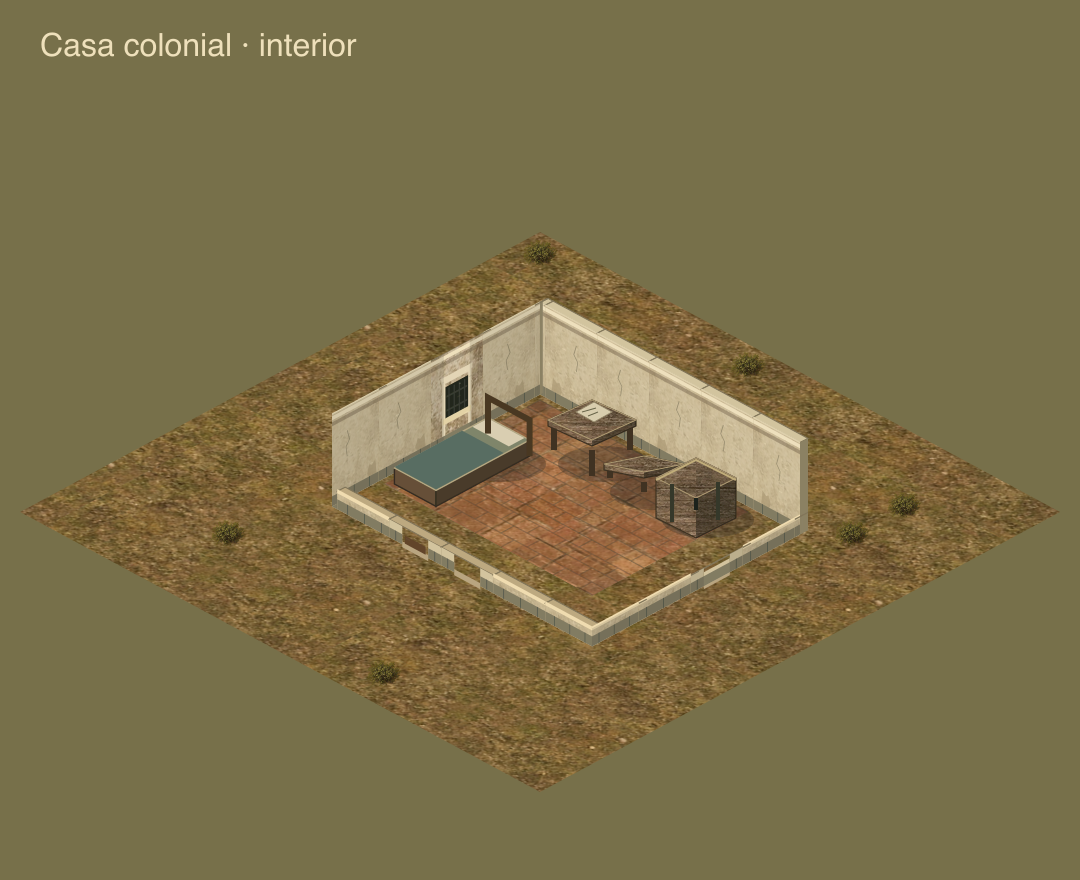
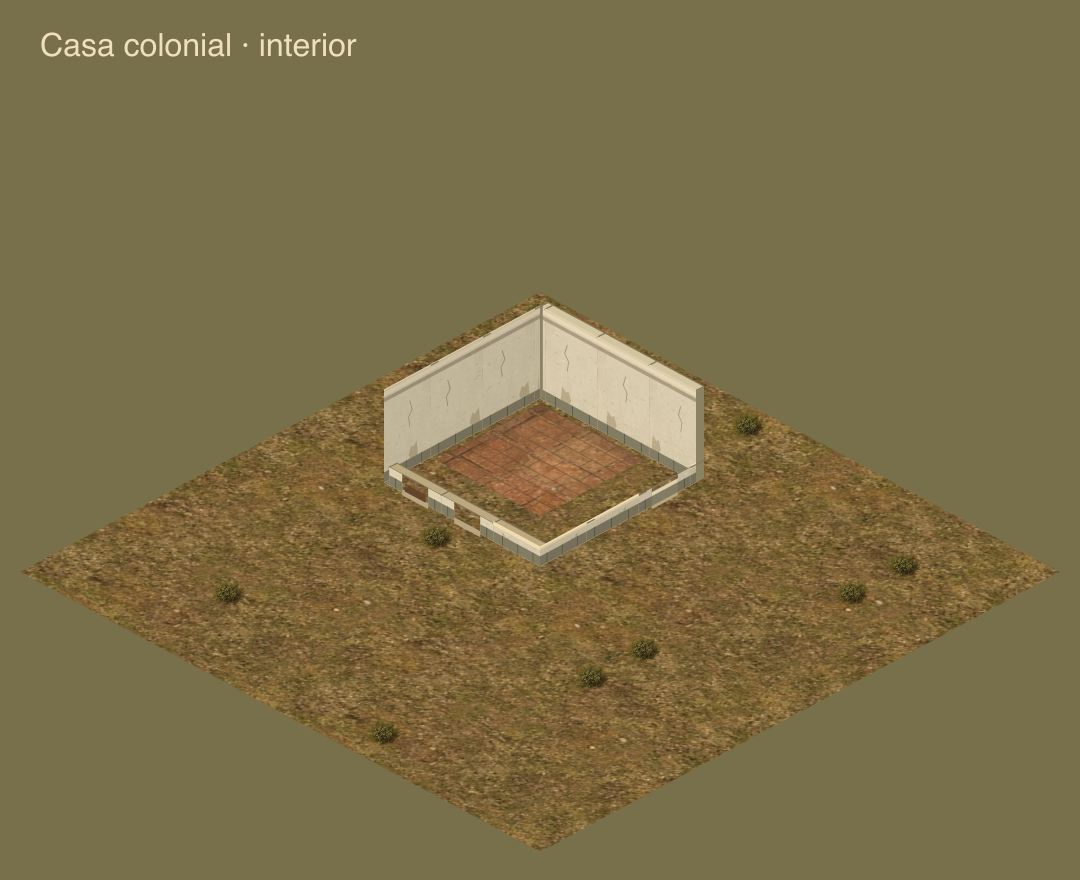
art: redesign colonial silhouettes, wall colours and landmark facades

Changed region(s): [[0.0306, 0.2761, 0.9778, 0.9818], [0.5194, 0.767, 0.5806, 0.7977], [0.1833, 0.583, 0.2444, 0.6136]]

diff --git a/web/app/BuildingRoof.tsx b/web/app/BuildingRoof.tsx
@@ -1,0 +1,128 @@
+import type {ReactNode} from 'react';
+import {buildingStyle} from '../../game/building-types.js';
+type P={x:number;y:number};
+type Args={building:any;left:number;right:number;top:number;bottom:number;doors?:any[];project:(x:number,y:number)=>P};
+const clay=['#976247','#9d684b','#a66f4f','#8f5c43','#ac7453','#a06a4d'];
+const hash=(x:number,y:number)=>((Math.imul(x+71,374761393)^Math.imul(y+97,668265263))>>>0);
+
+/** All surfaces, including tower sides, use the same ground projection as walls. */
+export function BuildingRoof({building:b,left:L,right:R,top:T,bottom:B,doors=[],project}:Args){
+ const style=buildingStyle(b),kind=b.architecture??'house',H=style.height+1;
+ const nodes:ReactNode[]=[];
+ const point=(x:number,y:number,z=0)=>{const p=project(x+.4,y+.4);return {x:p.x,y:p.y-z};};
+ const at=(x:number,y:number,z=0)=>{const p=point(x,y,z);return `${p.x},${p.y}`;};
+ const polygon=(coords:number[][],fill:string,stroke='#68583e',width=.6)=><polygon points={coords.map(([x,y,z])=>at(x,y,z)).join(' ')} fill={fill} stroke={stroke} strokeWidth={width}/>;
+ // A plane transform keeps façade ornaments parallel to the building, never facing the screen.
+ const face=(x:number,y:number,length:number,axis:'x'|'y',content:ReactNode)=>{
+  const p=point(x,y),q=point(x+(axis==='x'?length:0),y+(axis==='y'?length:0));
+  return <g transform={`matrix(${(q.x-p.x)/100} ${(q.y-p.y)/100} 0 1 ${p.x} ${p.y})`}>{content}</g>;
+ };
+ const box=(x:number,y:number,w:number,d:number,base:number,height:number,color=style.wall)=> <>
+  {polygon([[x,y+d,base],[x+w,y+d,base],[x+w,y+d,height],[x,y+d,height]],color)}
+  {polygon([[x+w,y,base],[x+w,y+d,base],[x+w,y+d,height],[x+w,y,height]],'#a29779')}
+  {polygon([[x,y,height],[x+w,y,height],[x+w,y+d,height],[x,y+d,height]],style.trim)}
+ </>;
+ const roof=(x:number,y:number,w:number,d:number,eave:number,rise:number,form:'hip'|'gable-x'|'gable-y'|'shed'|'flat',material='tile')=>{
+  const z=(a:number,c:number)=>eave+rise*(form==='flat'?0:form==='shed'?1-c:form==='gable-x'?1-Math.abs(c*2-1):form==='gable-y'?1-Math.abs(a*2-1):Math.min(1,(1-Math.abs(a*2-1))*w/Math.min(w,d),(1-Math.abs(c*2-1))*d/Math.min(w,d)));
+  const mesh:ReactNode[]=[];const nx=Math.ceil(w*3)*2,ny=Math.ceil(d*3)*2;
+  // Close gable ends before drawing roof planes.
+  if(form==='gable-y')mesh.push(<g key="gable" data-building-gable="true">{polygon([[x,y+d,eave],[x+w/2,y+d,eave+rise],[x+w,y+d,eave]],style.wall)}</g>);
+  if(form==='gable-x')mesh.push(<g key="gable" data-building-gable="true">{polygon([[x+w,y,eave],[x+w,y+d/2,eave+rise],[x+w,y+d,eave]],style.wall)}</g>);
+  for(let i=0;i<nx;i++)for(let j=0;j<ny;j++){
+   const a=i/nx,c=j/ny,a2=(i+1)/nx,c2=(j+1)/ny,n=hash(i+b.x*13,j+b.y*23);
+   const color=material==='thatch'?['#8e7b4f','#978354','#a38d59','#ad9761'][n%4]:form==='flat'?['#b8a581','#b09d79','#b3a07d'][n%3]:(kind==='cabildo'?['#a45338','#ae5d3d','#a9573b','#995036','#b06442','#a4583a']:clay)[n%clay.length];
+   mesh.push(<g key={`${i}-${j}`}>{polygon([[x+a*w,y+c*d,z(a,c)],[x+a2*w,y+c*d,z(a2,c)],[x+a2*w,y+c2*d,z(a2,c2)],[x+a*w,y+c2*d,z(a,c2)]],color,material==='thatch'?'none':'#78563d',.25)}
+    {material==='thatch'?Array.from({length:4},(_,k)=>{const f=c+(c2-c)*k/4;return <path key={k} d={`M${at(x+a*w,y+f*d,z(a,f)+.4)}L${at(x+a2*w,y+f*d,z(a2,f)+.4)}`} stroke={k%2?'#c2ac72':'#685a38'} strokeWidth=".6"/>;}):<path d={`M${at(x+a*w,y+c*d,z(a,c)+.3)}L${at(x+a2*w,y+c*d,z(a2,c)+.3)}`} stroke="#dbad79" opacity=".45" strokeWidth=".5"/>}
+   </g>);
+  }
+  mesh.push(<path key="edge" d={`M${at(x,y+d,z(0,1))}L${at(x+w,y+d,z(1,1))}L${at(x+w,y,z(1,0))}`} fill="none" stroke={material==='thatch'?'#74623e':'#67472f'} strokeWidth={material==='thatch'?4:2}/>);
+  return <g data-roof-form={form}>{mesh}</g>;
+ };
+ const parapet=(x:number,y:number,w:number,d:number,h:number)=> <>
+  {polygon([[x,y+d,H],[x+w,y+d,H],[x+w,y+d,h],[x,y+d,h]],style.wall)}
+  {polygon([[x+w,y,H],[x+w,y+d,H],[x+w,y+d,h],[x+w,y,h]],'#a99c7c')}
+  <path d={`M${at(x,y+d,h)}L${at(x+w,y+d,h)}L${at(x+w,y,h)}`} fill="none" stroke={style.trim} strokeWidth="3"/>
+ </>;
+ const chimney=(x:number,y:number,z:number)=> <g data-chimney="true">{box(x,y,.38,.4,z,z+20,'#a77d59')}{box(x-.05,y-.05,.48,.5,z+18,z+22,'#c09b71')}<path d={`M${at(x+.05,y+.12,z+23)}L${at(x+.32,y+.12,z+23)}`} stroke="#4b4535" strokeWidth="3"/></g>;
+ const gallery=(x:number,y:number,w:number,z:number,depth=.7)=> <g data-building-gallery="true">
+  {roof(x,y,w,depth,z,8,'shed')}
+  {Array.from({length:Math.ceil(w)+1},(_,i)=>{const a=x+w*i/Math.ceil(w);return <g key={i}><path d={`M${at(a,y+depth,0)}L${at(a,y+depth,z)}`} stroke="#5d4a30" strokeWidth="3"/><path d={`M${at(a,y+depth,z-8)}L${at(Math.min(x+w,a+.2),y+depth,z)}`} stroke="#96774b" strokeWidth="2"/></g>;})}
+  <path d={`M${at(x,y+depth,z)}L${at(x+w,y+depth,z)}`} stroke="#775636" strokeWidth="3"/>
+ </g>;
+ const tower=(x:number,y:number,w:number,d:number,base:number,h:number,clock=false)=> <g data-building-tower={kind}>
+  {box(x,y,w,d,base,h)}
+  {face(x,y+d,w,'x',<><path d={`M8,-${base}V-${h-2}M92,-${base}V-${h-2}`} stroke={style.trim} strokeWidth="5"/>
+   <path d={`M29,-${base+9}V-${h-21}Q50,-${h-10} 71,-${h-21}V-${base+9}Z`} fill="#383c2e" stroke={style.trim} strokeWidth="3"/>
+   {clock?<><ellipse cx="50" cy={-h+12} rx="13" ry="7" fill="#f0dfb0" stroke="#665c41"/><path d={`M50,-${h-7}v5h8`} stroke="#494a35" fill="none"/></>:<><path d={`M40,-${base+11}l3,-9q7,-5 14,0l3,9Z`} fill="#b29a5e"/><path d={`M35,-${base+10}H65`} stroke="#dfbe76" strokeWidth="2"/></>}
+  </>)}
+  {face(x+w,y,d,'y',<path d={`M30,-${base+10}V-${h-22}Q50,-${h-10} 70,-${h-22}V-${base+10}Z`} fill="#464a37" stroke="#c7b990" strokeWidth="2"/>)}
+  {box(x-.07,y-.07,w+.14,d+.14,h-3,h+1)}
+  {clock?<g data-cabildo-dome="true">{(()=>{const c=point(x+w/2,y+d/2,h+3),rx=Math.abs(point(x+w,y,h).x-point(x,y+d,h).x)/2+1;return <><path d={`M${c.x-rx},${c.y}C${c.x-rx},${c.y-18} ${c.x-12},${c.y-30} ${c.x},${c.y-30}C${c.x+12},${c.y-30} ${c.x+rx},${c.y-18} ${c.x+rx},${c.y}Z`} fill="#62512e" stroke="#483e26"/><path d={`M${c.x},${c.y-29}Q${c.x-9},${c.y-17} ${c.x-8},${c.y}`} fill="none" stroke="#99804a" strokeWidth="2"/><ellipse cx={c.x} cy={c.y} rx={rx} ry="4" fill="#ad9450"/></>;})()}</g>:<>
+  {polygon([[x-.1,y+d+.1,h+1],[x+w+.1,y+d+.1,h+1],[x+w/2,y+d/2,h+26]],'#996544')}
+  {polygon([[x+w+.1,y-.1,h+1],[x+w+.1,y+d+.1,h+1],[x+w/2,y+d/2,h+26]],'#77503a')}
+  </>}
+  <path d={`M${at(x+w/2,y+d/2,h+26)}v-13m-5,5h10`} stroke="#4d4935" strokeWidth="1.8"/>
+ </g>;
+ const w=R-L,d=B-T;
+ if(b.roof&&b.roof!==style.roof){
+  nodes.push(roof(L,T,w,d,H,b.roof==='terrace'?0:22,b.roof==='terrace'?'flat':'hip',b.roof));
+ }else if(kind==='cabildo'){
+  nodes.push(roof(L,T,w,d,H,22,'gable-x'));
+  // The long double arcade faces the plaza; the side remains a plain service wall.
+  nodes.push(face(L,B+.015,w,'x',<g data-cabildo-arcade="true">
+   <rect y={-H+2} width="100" height={H-2} fill={style.wall}/>
+   {Array.from({length:11},(_,i)=>{const x=2+i*8.8;return <g key={i}>
+    {[5,43].map(z=><g key={z}><path d={`M${x},-${z}V-${z+21}Q${x+3.1},-${z+33} ${x+6.2},-${z+21}V-${z}Z`} fill="#676a53"/><path d={`M${x+.6},-${z}V-${z+19}Q${x+3.5},-${z+29} ${x+5.6},-${z+19}`} stroke="#b9ac88" strokeWidth=".65" fill="none"/></g>)}
+    <path d={`M${x-.7},-2V-35M${x-.7},-41V-75`} stroke={style.trim} strokeWidth="1.2"/>
+   </g>;})}
+   <path d="M0,-39H100M0,-78H100M0,-3H100" stroke={style.trim} strokeWidth="3"/>
+   <path d="M0,-40H100M0,-47H100" stroke="#454b3c" strokeWidth=".9"/>
+   {Array.from({length:45},(_,i)=><path key={`rail-${i}`} d={`M${i*100/44},-47v7`} stroke="#454b3c" strokeWidth=".65"/>)}
+   <path d={`M42,0V-${H+8}H58V0ZM39,-${H+8}H61`} fill={style.wall} stroke={style.trim} strokeWidth="2"/>
+   <path d="M45,-45V-64Q50,-76 55,-64V-45Z" fill="#4a503c" stroke={style.trim} strokeWidth="1.5"/>
+   <path d={`M43,-2V-${H+4}M57,-2V-${H+4}`} stroke={style.trim} strokeWidth="1.8"/>
+   <path d="M40,-39H60M41,-8H59" stroke={style.trim} strokeWidth="3"/>
+  </g>));
+  nodes.push(tower(L+w*.43,B-.9,w*.14,.85,H+7,H+66,true));
+  for(const door of doors.filter(t=>t.y===b.y+b.height-1))nodes.push(face(door.x-.4,B+.03,.48,'x',<g data-landmark-door={door.doorId}>
+   <rect y="-29" width="100" height="29" fill="#30372a"/>
+   <rect y="-28" width={door.open?12:100} height="28" fill="#70583b" stroke="#c4af72" strokeWidth="1"/>
+   {!door.open&&<path d="M25,-27V0M50,-27V0M75,-27V0M0,-23H100M0,-6H100" stroke="#4d412a"/>}
+  </g>));
+ }else if(kind==='church'){
+  nodes.push(roof(L,T,w,d,H,31,'gable-y'));
+  // The church front has a curved pediment, central oculus and two pilasters.
+  nodes.push(face(L,B+.025,w,'x',<g data-church-front="true">
+   <path d={`M0,-${H-3}V-${H+5}H15Q24,-${H+5} 29,-${H+17}Q38,-${H+36} 50,-${H+36}Q62,-${H+36} 71,-${H+17}Q76,-${H+5} 85,-${H+5}H100V-${H-3}Z`} fill={style.wall} stroke={style.trim} strokeWidth="2"/>
+   <path d={`M18,-2V-${H+1}M82,-2V-${H+1}`} stroke={style.trim} strokeWidth="5"/>
+   <path d={`M15,-${H+2}H85M12,-8H26M74,-8H88`} stroke="#c1ad83" strokeWidth="3"/>
+   <ellipse cx="50" cy={-H+8} rx="9" ry="8" fill="#69664b" stroke={style.trim} strokeWidth="3"/>
+   <path d={`M50,-${H+33}v-16m-5,5h10`} stroke="#4a4732" strokeWidth="1.6"/>
+  </g>));
+  nodes.push(tower(L+.05,B-.87,.88,.88,H-2,H+59));
+ }else if(kind==='mansion'){
+  nodes.push(roof(L,T,w,d,H,0,'flat'),parapet(L,T,w,d,H+10));
+  // An offset mirador and its small hip roof break up the roof terrace.
+  nodes.push(box(L+.15,T+.2,w*.38,d*.42,H,H+25),roof(L+.08,T+.13,w*.38+.14,d*.42+.14,H+26,14,'hip'));
+  nodes.push(face(L+.15,T+.2+d*.42,w*.38,'x',<><rect x="28" y={-H-21} width="40" height="16" fill="#56634e"/><path d={`M48,-${H+21}v16`} stroke={style.trim} strokeWidth="2"/></>));
+  nodes.push(chimney(R-.65,T+.5,H));
+ }else if(kind==='estancia'){
+  nodes.push(roof(L,T,w,d,H,24,'hip'),gallery(L,B,w,H-11,.8));
+  nodes.push(chimney(L+.45,T+.6,H+9));
+ }else if(kind==='farmhouse'){
+  nodes.push(roof(L-.08,T-.08,w+.16,d+.16,H,24,'hip','thatch'));
+  nodes.push(chimney(R-.7,T+.5,H+6));
+ }else if(kind==='warehouse'){
+  nodes.push(roof(L,T,w*.5,d,H,23,'gable-y'),roof(L+w*.5,T,w*.5,d,H,23,'gable-y'));
+  nodes.push(face(L,B+.01,w,'x',<><path d={`M0,-${H}H100`} stroke="#645239" strokeWidth="3"/>{[25,75].map(x=><g key={x}><path d={`M${x-6},-${H+3}V-${H+11}H${x+6}V-${H+3}Z`} fill="#574e38"/><path d={`M${x-7},-${H+7}H${x+7}`} stroke="#b49360"/></g>)}<path d={`M50,-${H-2}V-${H+22}h14m-6,0v24`} stroke="#57442c" strokeWidth="2"/></>));
+ }else if(kind==='pulperia'){
+  nodes.push(roof(L,T,w,d,H,16,'shed'),gallery(L,B,w,H-12,.75));
+  nodes.push(face(L+w*.1,B+.76,w*.28,'x',<><path d={`M0,-${H-12}v11M100,-${H-12}v11`} stroke="#453b27"/><rect y={-H+20} width="100" height="10" fill="#644d30" stroke="#a8915a"/><text x="50" y={-H+27} textAnchor="middle" fill="#e1cea0" fontSize="6" letterSpacing="1">PULPERÍA</text></>));
+ }else if(kind==='barracks'){
+  nodes.push(roof(L,T,w,d,H,12,'gable-x'),chimney(L+.6,T+.7,H+5),chimney(R-.8,T+.7,H+5));
+ }else{
+  nodes.push(roof(L,T,w,d,H,0,'flat'),parapet(L,T,w,d,H+7),chimney(L+.5,T+.5,H));
+  nodes.push(face(L,B+.015,w,'x',<path d={`M35,-${H+6}V-${H+11}H65V-${H+6}`} fill={style.wall} stroke={style.trim} strokeWidth="2"/>));
+ }
+ return <g data-building-silhouette={kind}>{nodes.map((node,i)=><g key={i}>{node}</g>)}</g>;
+}

diff --git a/web/app/TacticalBuildings.tsx b/web/app/TacticalBuildings.tsx
@@ -1,12 +1,12 @@
 import {buildingStyle} from '../../game/building-types.js';
-import {WallDetails,RoofLandmark} from './BuildingDetails';
+import {WallDetails} from './BuildingDetails';
+import {BuildingRoof} from './BuildingRoof';
 import type {ReactNode} from 'react';
 type Point={x:number;y:number};
 type Args={state:any;revealed:Set<string>;project:(x:number,y:number)=>Point;light:(x:number,y:number)=>number};
 type SceneObject={key:string;depth:number;node:ReactNode};
 // Restrained earth pigments, limewash and hand-fired clay; no modern siding.
 const wallInset=.4; // Tile edges are half a cell from the center.
-const clay=['#925238','#a45e40','#ad6949','#975337','#b47651','#9f6042'];
 const noise=(x:number,y:number)=>((Math.imul(x+71,374761393)^Math.imul(y+97,668265263))>>>0);
 
 /** Render architectural segments on authored collision cells, never a facade image. */
@@ -40,23 +40,23 @@ export function buildBuildingObjects({state:s,revealed,project,light}:Args):Scen
     <polygon points={`${top(start,height)} ${top(end,height)} ${end.x+4},${end.y-height-2} ${start.x+4},${start.y-height-2}`} fill={cut?'#bda980':'#d2c49e'} stroke="#807459" strokeWidth=".55"/>
     <path d={`M${end.x},${end.y}v-${height}l4,-2v${height}Z`} fill="#8b8163"/>
     <g transform={`matrix(${dx} ${dy} 0 1 ${start.x} ${start.y})`}>
-     {!isOpening?<><rect x="0" y={-height} width={width} height={height} fill="url(#terrain-plaster)"/><rect y={-height} width="40" height={height} fill={plaster} opacity=".66"/></>:cut?<>
+     {!isOpening?<><rect x="0" y={-height} width={width} height={height} fill="url(#terrain-plaster)"/><rect y={-height} width="40" height={height} fill={plaster} opacity=".86"/></>:cut?<>
       {/* Openings stay legible as thresholds and low jambs in the cutaway. */}
       <path d="M0,0V-9H10V0ZM30,0V-9H40V0Z" fill={plaster}/>
       <path d="M10,0H30" stroke="#b9a580" strokeWidth="3"/>
       {t.type==='door'&&!t.open&&<path d="M12,-3H28" stroke="#62452c" strokeWidth="4"/>}
       {t.type==='window'&&<path d="M10,-7H30V0H10Z" fill={plaster}/>}
      </>:<>
-      <path d={`M0,0V-${height}H40V0H29V-${t.type==='door'?30:29}H11V0Z`} fill="url(#terrain-plaster)"/>
-      {t.type==='window'&&<rect x="10" y="-12" width="20" height="12" fill="url(#terrain-plaster)"/>}
+      <path d={`M0,0V-${height}H40V0H29V-${t.type==='door'?30:29}H11V0Z`} fill={plaster}/>
+      {t.type==='window'&&<rect x="10" y="-12" width="20" height="12" fill={plaster}/>}
       <rect x="11" y={t.type==='door'?-30:-29} width="18" height={t.type==='door'?30:17} fill="#20251b"/>
       <path d={`M10,0V-32H30V0M8,-33H32`} fill="none" stroke="#e3d5b5" strokeWidth="2.5"/>
       {t.type==='door'?<g transform={t.open?'translate(11 0) skewY(-25) scale(.22 1) translate(-11 0)':undefined}><rect x="12" y="-30" width="16" height="30" fill="url(#terrain-wood)" stroke="#5c4931" strokeWidth=".8"/><path d="M15,-29V-1M20,-29V-1M25,-29V-1M12,-24H28M12,-7H28" stroke="#413725" strokeWidth=".7"/><circle cx="25" cy="-14" r="1" fill="#c1a16a"/></g>:<><path d="M14,-28V-13M18,-28V-13M22,-28V-13M26,-28V-13M12,-24H28M12,-17H28" stroke="#383b30" strokeWidth="1"/><path d="M9,-12H31" stroke="#e3d2a5" strokeWidth="3"/></>}
      </>}
-     <WallDetails building={b} front={Boolean(isFront)} cut={Boolean(cut)} opening={isOpening}/>
+     <WallDetails building={b} front={Boolean(isFront&&axis==='x')} cut={Boolean(cut)} opening={isOpening}/>
      {/* Limewash wear is irregular but stable across renders. */}
      {Array.from({length:cut?4:19},(_,i)=>{const n=noise(t.x*43+i,t.y*29+index),x=n%38+1,y=-(n%Math.max(1,height-3)+2);return <path key={i} d={`M${x},${y}h${1+n%3}`} stroke={i%3?'#796d50':'#fff1ce'} opacity={i%3?'.16':'.23'} strokeWidth=".6"/>;})}
-     {!cut&&<><path d="M0,-44H40" stroke="#eee0bd" strokeWidth="2"/><path d="M0,-41H40" stroke="#66553e" strokeWidth="2" opacity=".4"/></>}
+     {!cut&&<><path d={`M0,-${height-2}H40`} stroke={style.trim} strokeWidth="2"/><path d={`M0,-${height-5}H40`} stroke="#66553e" strokeWidth="2" opacity=".4"/></>}
      {/* Broken plaster and jointed stone footing, deterministic per tile. */}
      {!isOpening&&<><path d={`M${3+seed},-${Math.min(height-2,12)}l3,2 2,-1 2,4 -2,3 -6,-1Z`} fill="#a69570" opacity=".6"/>{height>15&&<path d={`M${27-seed},-34l-2,5 3,3 -1,5`} fill="none" stroke="#867d61" strokeWidth=".55" opacity=".75"/>}</>}
      <path d={isOpening&&t.type==='door'?'M0,-5H10V0H0ZM30,-5H40V0H30Z':'M0,-5H40V0H0Z'} fill="#827b62"/>
@@ -93,43 +93,9 @@ export function buildBuildingObjects({state:s,revealed,project,light}:Args):Scen
    continue;
   }
   const xs=room.cells.map((p:any)=>p.x),ys=room.cells.map((p:any)=>p.y);
-  const left=Math.max(b.x-.18,Math.min(...xs)-1.18),right=Math.min(b.x+b.width-.82,Math.max(...xs)+1.18),top=Math.max(b.y-.18,Math.min(...ys)-1.18),bottom=Math.min(b.y+b.height-.82,Math.max(...ys)+1.18),middle=(left+right)/2;
-  const style=buildingStyle(b),flat=b.roof==='terrace',thatch=b.roof==='thatch';
-  const rise=flat?0:Math.min(thatch?35:30,(right-left)*7),eave=style.height+1;
-  const palette=thatch?['#968053','#a38d5f','#b49b68','#8b784d','#bcaa78','#9d8858']:clay;
-  const roof=(x:number,y:number,z:number)=>{const p=project(x+wallInset,y+wallInset);return `${p.x},${p.y-z}`;};
-  const tiles:ReactNode[]=[];
-  // Map each barrel tile onto its actual roof plane (never a screen-space pattern).
-  for(const side of [0,1]){
-   const a=side?middle:left,c=side?right:middle;
-   const z=(x:number)=>eave+rise*(side?(right-x)/(right-middle):(x-left)/(middle-left));
-   const rows=Math.ceil((c-a)*5),columns=Math.ceil((bottom-top)*5);
-   for(let row=0;row<rows;row++)for(let col=0;col<columns;col++){
-    const x=a+(c-a)*row/rows,x2=a+(c-a)*(row+1)/rows,y=top+(bottom-top)*col/columns,y2=top+(bottom-top)*(col+1)/columns;
-    const n=noise(row+b.x*31,col+b.y*17+side);
-    tiles.push(<g key={`${side}-${row}-${col}`}>
-     <polygon points={`${roof(x,y,z(x))} ${roof(x2,y,z(x2))} ${roof(x2,y2,z(x2))} ${roof(x,y2,z(x))}`} fill={flat?'#aa9671':palette[n%palette.length]} stroke={thatch?'none':'#603e2d'} strokeWidth=".35"/>
-     {thatch&&Array.from({length:5},(_,fiber)=>{const fy=y+(y2-y)*fiber/5;return <path key={fiber} d={`M${roof(x,fy,z(x)+.4)}L${roof(x2+.025,fy,z(x2)+.4)}`} stroke={fiber%2?'#d0bb80':'#76643e'} strokeWidth=".55" opacity=".7"/>;})}
-     <path d={`M${roof(x,y+.035,z(x)+.3)}L${roof(x2,y+.035,z(x2)+.3)}`} stroke={thatch?'#d0bc84':'#d59a69'} strokeWidth={thatch?1.2:.85} opacity=".6"/>
-    </g>);
-   }
-  }
+  const left=Math.max(b.x-.18,Math.min(...xs)-1.18),right=Math.min(b.x+b.width-.82,Math.max(...xs)+1.18),top=Math.max(b.y-.18,Math.min(...ys)-1.18),bottom=Math.min(b.y+b.height-.82,Math.max(...ys)+1.18);
   objects.push({key:`architecture-roof-${room.id}`,depth:right+bottom+.12,node:<g data-roof-room={room.id} data-roof-material={b.roof} data-building-type={b.architecture??'house'} pointerEvents="none" style={{filter:`brightness(${light(b.x,b.y)})`}}>
-   {/* A complete gable closes the old triangular gap above the front wall. */}
-   <polygon data-building-gable="true" points={`${roof(left,bottom,eave)} ${roof(middle,bottom,eave+rise)} ${roof(right,bottom,eave)}`} fill="url(#terrain-plaster)" stroke="#8b7856" strokeWidth=".7"/>
-   <path d={`M${roof(middle,bottom,eave+9)}v-7`} stroke="#4d4533" strokeWidth="3"/>
-   {tiles}
-   <polygon points={`${roof(middle,top,eave+rise)} ${roof(right,top,eave)} ${roof(right,bottom,eave)} ${roof(middle,bottom,eave+rise)}`} fill="#27221a" opacity=".16"/>
-   <path d={`M${roof(left,bottom,eave)}L${roof(middle,bottom,eave+rise)}L${roof(right,bottom,eave)}`} fill="none" stroke="#513926" strokeWidth="3"/>
-   <path d={`M${roof(left,top,eave)}L${roof(left,bottom,eave)}M${roof(right,top,eave)}L${roof(right,bottom,eave)}`} stroke="#663e29" strokeWidth="3"/>
-   {!flat&&<path d={`M${roof(middle,top,eave+rise)}L${roof(middle,bottom,eave+rise)}`} stroke={thatch?'#786842':'#cd8a59'} strokeWidth={thatch?6:4}/>}
-   {flat&&<path d={`M${roof(left,top,eave+7)}L${roof(right,top,eave+7)}L${roof(right,bottom,eave+7)}L${roof(left,bottom,eave+7)}Z`} fill="none" stroke={style.trim} strokeWidth="7"/>}
-   {style.gallery&&<g data-building-gallery="true">
-    <polygon points={`${roof(left,bottom,eave-5)} ${roof(right,bottom,eave-5)} ${roof(right,bottom+.55,eave-17)} ${roof(left,bottom+.55,eave-17)}`} fill="#a96f49" stroke="#62482f" strokeWidth="2"/>
-    {Array.from({length:b.width},(_,i)=>{const x=left+(right-left)*i/(b.width-1);return <g key={i}><path d={`M${roof(x,bottom+.55,0)}L${roof(x,bottom+.55,eave-17)}`} stroke="#735638" strokeWidth="3"/><path d={`M${roof(x,bottom,eave-5)}L${roof(x,bottom+.55,eave-17)}`} stroke="#d39964" strokeWidth="1.5"/></g>;})}
-   </g>}
-   <RoofLandmark building={b} project={project} eave={eave}/>
-   {Array.from({length:Math.ceil((bottom-top)*5)},(_,i)=>{const y=top+i/5;return <path key={i} d={`M${roof(middle-.06,y,eave+rise-1)}L${roof(middle+.06,y,eave+rise-1)}`} stroke="#72452e" strokeWidth=".8"/>;})}
+   <BuildingRoof building={b} left={left} right={right} top={top} bottom={bottom} doors={s.tiles.filter((t:any)=>t.buildingId===b.id&&t.type==='door')} project={project}/>
   </g>});
  }
  return objects;

diff --git a/web/app/BuildingDetails.tsx b/web/app/BuildingDetails.tsx
@@ -5,32 +5,15 @@ export function WallDetails({building:b,front,cut,opening}:{building:any;front:b
  const style=buildingStyle(b),kind=b?.architecture;
  if(cut)return null;
  return <g data-architecture-detail={kind??'house'}>
-  {style.upper&&<><rect y={-style.height} width="40" height={style.height-46} fill={style.wall}/><path d="M0,-47H40M0,-50H40" stroke={style.trim} strokeWidth="2"/>
+  {style.upper&&kind!=='cabildo'&&<><rect y={-style.height} width="40" height={style.height-46} fill={style.wall}/><path d="M0,-47H40M0,-50H40" stroke={style.trim} strokeWidth="2"/>
    <path d={`M10,-55V-${style.height-12}Q20,-${style.height+1} 30,-${style.height-12}V-55Z`} fill="#383a2d" stroke={style.trim} strokeWidth="2"/>
    <path d={`M16,-56V-${style.height-11}M24,-56V-${style.height-11}`} stroke="#776448"/>
    {kind==='mansion'&&<><path d="M6,-53H34M7,-62H33M9,-62V-53M14,-62V-53M20,-62V-53M26,-62V-53M31,-62V-53" stroke="#353a30" strokeWidth="1.2"/><path d="M4,-51H36" stroke={style.trim} strokeWidth="3"/></>}
   </>}
-  {front&&style.arcade&&<>{!opening&&<path d="M6,-6V-28Q20,-44 34,-28V-6Z" fill="#8d866c"/>}<path d="M2,0V-29Q20,-52 38,-29V0M2,-47V-70Q20,-91 38,-70V-48" fill="none" stroke={style.trim} strokeWidth="4"/><path d="M0,-3H7M33,-3H40M0,-46H40" stroke={style.trim} strokeWidth="3"/></>}
-  {front&&style.gallery&&<><path d="M1,0V-40M39,0V-40" stroke="#574730" strokeWidth="3"/><path d="M0,-38H40M1,-31L9,-38M31,-38L39,-31" stroke="#7d6441" strokeWidth="2"/></>}
   {kind==='barracks'&&<path d="M0,-9H40" stroke="#915d43" strokeWidth="5" opacity=".8"/>}
-  {kind==='warehouse'&&!opening&&<><path d="M3,-8V-49H37V-8ZM5,-10L35,-47M5,-47L35,-10" fill="#776348" stroke="#4b4130" strokeWidth="2"/><path d="M13,-10V-47M26,-10V-47" stroke="#9d8359"/></>}
-  {front&&style.awning&&<><path d="M1,-35L-3,-27H43L39,-35Z" fill="#54624b" stroke="#343d2e"/><path d="M5,-34L2,-28M15,-34L14,-28M25,-34L26,-28M35,-34L38,-28" stroke="#c6b782" strokeWidth="3"/></>}
-  {kind==='church'&&!opening&&<><path d="M1,0V-60H7V0M33,0V-60H39V0" fill={style.trim}/><path d="M15,-35V-45Q20,-55 25,-45V-35Z" fill="#514b35" stroke={style.trim} strokeWidth="2"/></>}
- </g>;
-}
+  {kind==='warehouse'&&!opening&&<>{Array.from({length:9},(_,row)=><g key={row}><path d={`M0,-${row*5+3}H40`} stroke="#d0ad81" strokeWidth=".65"/>{[0,1,2].map(col=><path key={col} d={`M${col*15+(row%2?7:0)},-${row*5+3}v-5`} stroke="#d0ad81" strokeWidth=".65"/>)}</g>)}</>}
+  {kind==='farmhouse'&&!opening&&<path d="M2,-4V-34M38,-4V-34M0,-32H40" stroke="#776043" strokeWidth="2"/>}
+  {kind==='church'&&!opening&&<path d="M1,0V-59H6V0M34,0V-59H39V0" fill={style.trim}/>}
 
-export function RoofLandmark({building:b,project,eave}:{building:any;project:(x:number,y:number)=>{x:number;y:number};eave:number}){
- const style=buildingStyle(b);if(!style.tower)return null;
- const p=project(b.x+b.width/2,b.y+b.height-.6),cabildo=b.architecture==='cabildo';
- const base=eave+8,h=cabildo?64:58,w=cabildo?24:20;
- return <g data-building-tower={b.architecture} transform={`translate(${p.x} ${p.y-base})`}>
-  <path d={`M${-w},0V-${h}H${w}V0Z`} fill={style.wall} stroke="#80765a"/>
-  <path d={`M${w},0l12,-7V-${h+7}l-12,7Z`} fill="#998e6e"/>
-  <path d={`M${-w-3},-${h}H${w+3}l12,-7H${-w+9}Z`} fill={style.trim} stroke="#847959"/>
-  <path d={`M-9,-15V-${h-19}Q0,-${h-7} 9,-${h-19}V-15Z`} fill="#333b2e" stroke={style.trim} strokeWidth="3"/>
-  {cabildo?<><circle cy={-h+10} r="7" fill="#e5d4a1" stroke="#5b523b"/><path d={`M0,-${h-5}v5h4`} fill="none" stroke="#454332" strokeWidth="1.2"/></>:<><path d="M-6,-18L-4,-30Q0,-36 4,-30L6,-18Z" fill="#a58c51"/><path d="M-7,-17H7" stroke="#d1b772" strokeWidth="2"/></>}
-  <path d={`M${-w-1},-${h+7}Q${-w},-${h+23} 0,-${h+30}Q${w},-${h+23} ${w+1},-${h+7}Z`} fill={cabildo?'#8d8061':'#9d6547'} stroke="#544b36"/>
-  <path d={`M0,-${h+29}v-16m-6,6h12`} stroke="#4e4934" strokeWidth="2"/>
-  <path d={`M${-w},-7H${w}M${-w},-${h-3}H${w}`} stroke={style.trim} strokeWidth="3"/>
  </g>;
 }

diff --git a/game/building-types.js b/game/building-types.js
@@ -1,15 +1,17 @@
 // Shared construction catalogue. Styles are interpretations of 1810–1820 architecture.
 export const BUILDING_TYPES=Object.freeze({
- house:{name:'Casa colonial',roof:'tile',wall:'#d3c49e',trim:'#e8d8b5',height:46},
- farmhouse:{name:'Rancho de campo',roof:'thatch',wall:'#aa9168',trim:'#c1a77b',height:38},
- estancia:{name:'Casco de estancia',roof:'tile',wall:'#e0cfaa',trim:'#f3e2bc',height:48,gallery:true},
- church:{name:'Iglesia colonial',roof:'tile',wall:'#dfd7bb',trim:'#eddfbd',height:62,tower:true},
- mansion:{name:'Casa de altos',roof:'terrace',wall:'#c4b090',trim:'#eee0be',height:80,upper:true},
- cabildo:{name:'Cabildo de Buenos Aires',roof:'tile',wall:'#dfd8bd',trim:'#f3e8cf',height:86,upper:true,arcade:true,tower:true},
- pulperia:{name:'Pulpería',roof:'tile',wall:'#c5b58b',trim:'#e3cea2',height:46,awning:true},
- warehouse:{name:'Almacén del puerto',roof:'tile',wall:'#b09c77',trim:'#d5bc90',height:54},
- barracks:{name:'Barraca del cuartel',roof:'tile',wall:'#c4bfa5',trim:'#e2d9b9',height:46},
+ house:{name:'Casa colonial',roof:'terrace',wall:'#ddd1b2',trim:'#e8d8b5',height:46},
+ farmhouse:{name:'Rancho de campo',roof:'thatch',wall:'#aa8860',trim:'#c1a77b',height:38},
+ estancia:{name:'Casco de estancia',roof:'tile',wall:'#c28d7a',trim:'#f3e2bc',height:43,gallery:true},
+ church:{name:'Iglesia colonial',roof:'tile',wall:'#ded9c2',trim:'#c4b08a',height:62,tower:true},
+ mansion:{name:'Casa de altos',roof:'terrace',wall:'#849c9c',trim:'#eee0be',height:80,upper:true},
+ cabildo:{name:'Cabildo de Buenos Aires',roof:'tile',wall:'#dec46f',trim:'#f3e8cf',height:80,upper:true,arcade:true,tower:true},
+ pulperia:{name:'Pulpería',roof:'tile',wall:'#b09a58',trim:'#e3cea2',height:46,awning:true},
+ warehouse:{name:'Almacén del puerto',roof:'tile',wall:'#a9785d',trim:'#d5bc90',height:54},
+ barracks:{name:'Barraca del cuartel',roof:'tile',wall:'#9aab89',trim:'#e2d9b9',height:39},
 });
+// Neighbourhood dimensions fit the street grid; landmarks keep their authored plans.
+export const BUILDING_FOOTPRINTS=Object.freeze({house:[4,4],farmhouse:[4,3],estancia:[6,4],church:[4,5],mansion:[5,5],cabildo:[8,4],pulperia:[5,4],warehouse:[5,5],barracks:[6,3]});
 export const buildingStyle=b=>BUILDING_TYPES[b?.architecture]??BUILDING_TYPES.house;
 export function sectorBuildingType(id,index=0,landmark=false){
  if(landmark)return ({buenos_aires:'cabildo',san_lorenzo:'church',yatasto:'estancia',retiro:'barracks',ensenada:'warehouse',mendoza:'warehouse',cordoba:'warehouse'})[id]??'house';

diff --git a/game/sector-expansion.js b/game/sector-expansion.js
@@ -1,4 +1,4 @@
-import {BUILDING_TYPES,sectorBuildingType} from './building-types.js';
+import {BUILDING_TYPES,BUILDING_FOOTPRINTS,sectorBuildingType} from './building-types.js';
 import {placeBuilding} from './buildings.js';
 import {propPlacementError} from './props.js';
 
@@ -53,14 +53,18 @@ export function expandSectorMap(core){
  for(const lot of lots){
   if(map.buildings.length>=target)break;
   const architecture=sectorBuildingType(id,map.buildings.length);
-  const w=['church','farmhouse'].includes(architecture)?4:5,h=['farmhouse','warehouse','barracks'].includes(architecture)?4:5;
-  // Protect the complete authored landmark, its courtyards and approaches.
-  if(lot.x<DX+22&&lot.x+w>DX-2&&lot.y<DY+18&&lot.y+h>DY-2)continue;
-  let clear=true;
-  for(let y=lot.y-1;y<=lot.y+h;y++)for(let x=lot.x-1;x<=lot.x+w;x++){const t=map.tiles[y*width+x];if(!t||t.blocked||t.buildingId||t.type==='road')clear=false;}
+  const [preferredWidth,h]=BUILDING_FOOTPRINTS[architecture];
+  let w=preferredWidth,clear=false;
+  // A long building can lose one bay on a constrained coastal lot.
+  for(;w>=Math.min(preferredWidth,5);w--){
+   if(lot.x<DX+22&&lot.x+w>DX-2&&lot.y<DY+18&&lot.y+h>DY-2)continue;
+   clear=true;
+   for(let y=lot.y-1;y<=lot.y+h;y++)for(let x=lot.x-1;x<=lot.x+w;x++){const t=map.tiles[y*width+x];if(!t||t.blocked||t.buildingId||t.type==='road')clear=false;}
+   if(clear)break;
+  }
   if(!clear)continue;
   const index=map.buildings.length,buildingId=`${id}:neighbourhood-${index}`;
-  const result=placeBuilding(map.tiles,{id:buildingId,architecture,name:`${BUILDING_TYPES[architecture].name} · ${index+1}`,...lot,width:w,height:h,doors:[{x:lot.x+2,y:lot.y+h-1}],windows:[{x:lot.x,y:lot.y+2}],material:'adobe'});
+  const result=placeBuilding(map.tiles,{id:buildingId,architecture,name:`${BUILDING_TYPES[architecture].name} · ${index+1}`,...lot,width:w,height:h,doors:[{x:lot.x+2,y:lot.y+h-1}],windows:[{x:lot.x,y:lot.y+Math.floor(h/2)}],material:'adobe'});
   if(target===20&&!map.buildings.some(b=>b.purpose==='bar'))Object.assign(result.building,{purpose:'bar',architecture:'pulperia',roof:'tile',name:'Pulpería del barrio'});
   map.tiles=result.tiles;map.buildings.push(result.building);
   const prop={id:`${buildingId}:chest`,type:'chest',x:lot.x+1,y:lot.y+1,buildingId,roomId:result.building.rooms[0].id,footprint:{width:1,height:1},blocksMovement:true};

diff --git a/game/maps.js b/game/maps.js
@@ -81,7 +81,7 @@ function plan(id){
  }
  const footprints={yatasto:[5,4,8,6],buenos_aires:[1,1,8,4],retiro:[6,6,5,4],ensenada:[5,2,4,3],san_nicolas:[5,10,3,3],santa_fe:[12,11,3,3],cordoba:[12,2,5,3],mendoza:[5,1,5,3],tucuman:[11,5,4,4],salta:[12,11,4,3],jujuy:[6,3,4,3],san_lorenzo:[4,5,5,6]};
  const buildings=[],lights=[];const footprint=footprints[id];
- if(footprint){const[x,y,width,height]=footprint,doorX=x+Math.floor(width/2),doorY=y+height-1;
+ if(footprint){const[x,y,width,height]=footprint,doorX=x+Math.floor((width-(id==='buenos_aires'?1:0))/2),doorY=y+height-1;
    const doors=[{id:`${id}:door-left`,x:doorX,y:doorY,open:id==='yatasto'}];if(width>=5)doors.push({id:`${id}:door-right`,x:doorX+1,y:doorY});
    const result=placeBuilding(c.tiles,{id:`${id}:building`,architecture:sectorBuildingType(id,0,true),name:id==='buenos_aires'?'Cabildo de Buenos Aires':id==='yatasto'?'Posta de Yatasto':id==='san_lorenzo'?'Convento de San Carlos':id==='mendoza'?'Maestranza de El Plumerillo':'Casa del sector',x,y,width,height,doors,windows:[{x,y:y+1}],material:'adobe'});
    c.tiles.splice(0,c.tiles.length,...result.tiles);buildings.push(result.building);

diff --git a/docs/art/buildings.md b/docs/art/buildings.md
@@ -69,3 +69,25 @@ Run `node tools/preview-building-catalogue.mjs` for exterior/interior renders of
 all nine styles and `assets/previews/buildings/catalogue.png`.
 `tests/building-types.test.mjs` verifies that the styles actually occur in campaign
 maps, render distinctly, and remove their roof and tower details on entry.
+
+### Revised silhouettes and colours
+
+The second art pass replaces the shared house roof with separate structural
+compositions in `web/app/BuildingRoof.tsx`:
+
+- Cream colonial houses: a low terrace, parapet and chimney.
+- Earth-coloured farmhouses: compact walls and a thick hipped thatch roof.
+- Rose-coloured estancias: a long hipped roof and full veranda.
+- Churches: a long nave, shaped entrance pediment and projected bell tower.
+- Blue-grey mansions: a roof terrace, balconies and an offset mirador.
+- Yellow Cabildo: eleven arcade bays on two levels, continuous balcony,
+  central entrance bay and a dark dome, following the user's supplied reference.
+- Ochre pulperías: a shed roof, timber veranda and hanging sign.
+- Brick warehouses: paired gables, louvres and a loading hoist.
+- Sage barracks: a long low roof and two chimneys.
+
+`BUILDING_FOOTPRINTS` gives neighbourhood types different proportions. Long
+buildings can lose one bay on constrained coastal lots. The catalogue uses
+larger landmark examples where appropriate. All tower faces use the same
+isometric projection as the walls. The Cabildo's façade renders its actual door
+states, and the complete roof composition disappears when its room is revealed.
